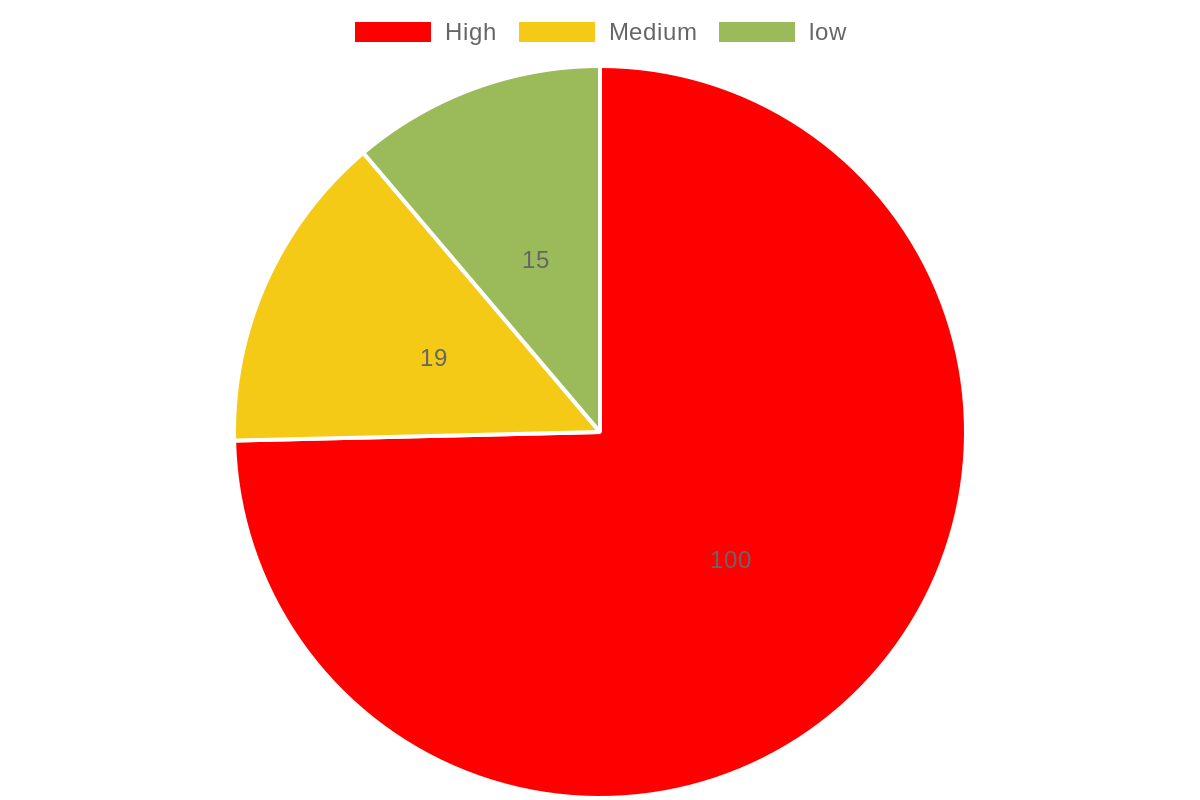
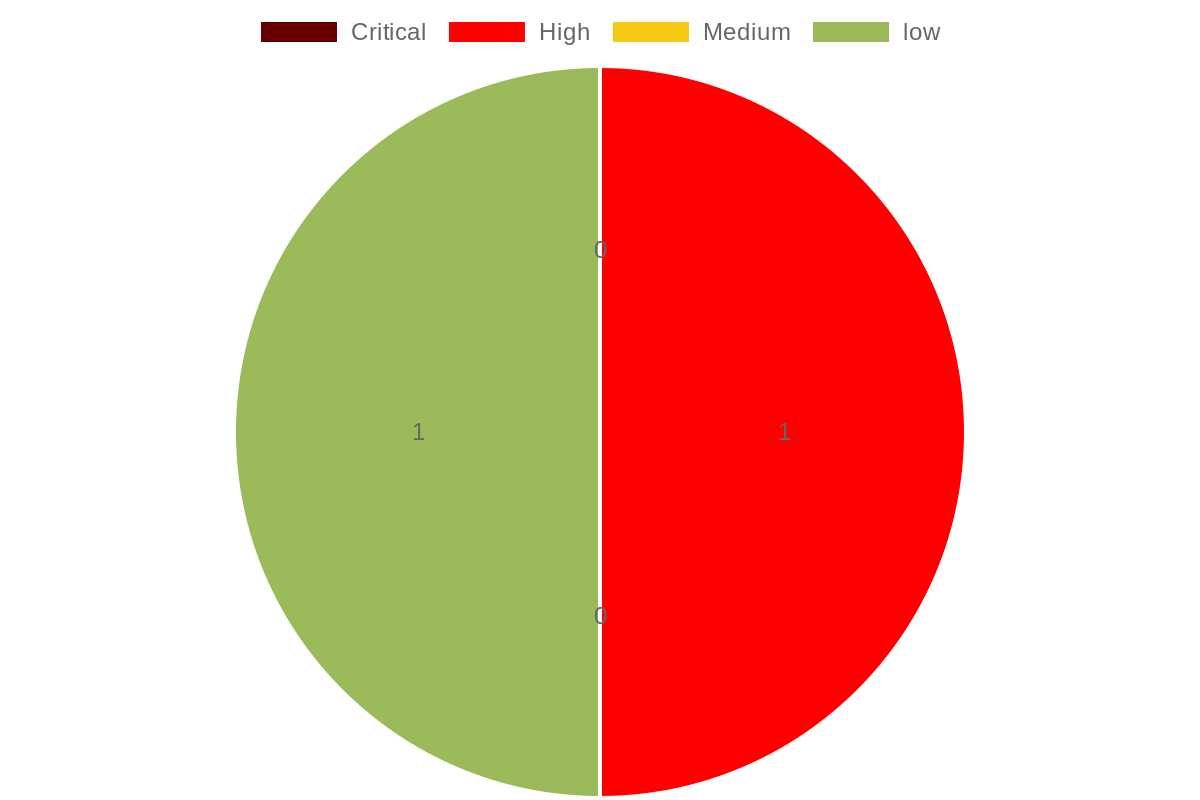
report download

diff --git a/backend/controllers/project.js b/backend/controllers/project.js
@@ -58,19 +58,19 @@ const table2 = path.join(
   "image",
   "chartectertable.png"
 );
-const chartt = () => {
+const chartt = (data) => {
   const chart = new QuickChart();
   // Add Dynamic Chart
   chart
     .setConfig({
       type: "bar",
       data: {
-        labels: ["High", "Medium", "low"],
+        labels: ["Critical", "High", "Medium", "low"],
         datasets: [
           {
             label: "vulnerabilities",
-            data: [100, 19, 15],
-            backgroundColor: ["red", "#f4ca16", "#9BBA59"],
+            data: data,
+            backgroundColor: ["#660000", "red", "#f4ca16", "#9BBA59"],
           },
         ],
       },
@@ -82,10 +82,9 @@ const chartt = () => {
   const chartUrl = chart.getUrl();
   // Define the folder where you want to save the image
   const folderPath = path.join(
-    "D:",
-    "EmploymanagentSystem",
-    "Work-Management-System",
-    "backend",
+    dirname(currentModulePath),
+    "..",
+
     "Charts"
   ); // Change 'images' to your desired folder name
 
@@ -102,19 +101,19 @@ const chartt = () => {
     }
   });
 };
-const chart2 = () => {
+const chart2 = (data) => {
   const chart = new QuickChart();
   // Add Dynamic Chart
   chart
     .setConfig({
       type: "pie",
       data: {
-        labels: ["High", "Medium", "low"],
+        labels: ["Critical", "High", "Medium", "low"],
         datasets: [
           {
             label: "vulnerabilities",
-            data: [100, 19, 15],
-            backgroundColor: ["red", "#f4ca16", "#9BBA59"],
+            data: data,
+            backgroundColor: ["#660000", "red", "#f4ca16", "#9BBA59"],
           },
         ],
       },
@@ -1417,24 +1416,119 @@ const pdfview = (req, res) => {
 };
 
 const downloadReportById = async (req, res) => {
-  console.log(req.body);
-  const rid = req.params.rid;
+  const { pid, tid, type, webtargetUrlsid } = req.params;
 
-  const report = await Report.findById(rid)
-    .populate("project")
-    .populate("employee");
-  const manager = await Employee.findById(report.project.manager);
+  const project = await Project.findById(pid);
+  const manager = await Employee.findById(project.manager);
+  const task = await Task.findById(tid);
+  const reports = [];
+  if (type === "web") {
+    for (let i = 0; i < task.webData.webtargetUrls.length; i++) {
+      if (task.webData.webtargetUrls[i]._id == webtargetUrlsid) {
+        for (
+          let j = 0;
+          j < task.webData.webtargetUrls[i].assignEmployee.length;
+          j++
+        ) {
+          for (
+            let k = 0;
+            k < task.webData.webtargetUrls[i].assignEmployee[j].report.length;
+            k++
+          ) {
+            reports.push(
+              task.webData.webtargetUrls[i].assignEmployee[j].report[k]
+            );
+          }
+        }
+      }
+    }
+  } else if (type === "api") {
+    for (let j = 0; j < task.apiData.assignEmployee.length; j++) {
+      for (let k = 0; k < task.apiData.assignEmployee[j].report.length; k++) {
+        reports.push(task.apiData.assignEmployee[j].report[k]);
+      }
+    }
+  } else if (type === "mobile") {
+    if (webtargetUrlsid === "android") {
+      for (
+        let j = 0;
+        j < task.mobileData.forAndroid.assignEmployee.length;
+        j++
+      ) {
+        for (
+          let k = 0;
+          k < task.mobileData.forAndroid.assignEmployee[j].report.length;
+          k++
+        ) {
+          reports.push(task.mobileData.forAndroid.assignEmployee[j].report[k]);
+        }
+      }
+    } else {
+      for (let j = 0; j < task.mobileData.forIos.assignEmployee.length; j++) {
+        for (
+          let k = 0;
+          k < task.mobileData.forIos.assignEmployee[j].report.length;
+          k++
+        ) {
+          reports.push(task.mobileData.forIos.assignEmployee[j].report[k]);
+        }
+      }
+    }
+  }
 
-  const date = new Date(report.createdAt);
+  const reports_data = [];
+
+  for (let i = 0; i < reports.length; i++) {
+    const r = await Report.findById(reports[i]).populate("employee");
+    if (r.isCompleted) {
+      reports_data.push(r);
+    }
+  }
+  if (reports_data.length < 1) {
+    return res.status(404).send("Not found reports");
+  }
+  // return console.log(reports_data[0][0].employee.name);
+  const date = new Date(reports_data[0].createdAt);
 
   const day = date.getUTCDate().toString().padStart(2, "0");
   const month = (date.getUTCMonth() + 1).toString().padStart(2, "0"); // Months are zero-based
   const year = date.getUTCFullYear();
 
   const formattedDate = `${day}-${month}-${year}`;
+  const authorsAndAuditorsText = [
+    [
+      "    Authors & Auditors",
+      "                                       Mail ID",
+    ],
+  ];
 
-  chartt();
-  chart2();
+  let HIGH = 0,
+    CRITICAL = 0,
+    MEDIUM = 0,
+    LOW = 0;
+  for (let i = 0; i < reports_data.length; i++) {
+    let temp = [reports_data[i].employee.name, reports_data[i].employee.email];
+    authorsAndAuditorsText.push(temp);
+    if (reports_data[i].risk === "high") {
+      HIGH++;
+    } else if (reports_data[i].risk === "low") {
+      LOW++;
+    } else if (reports_data[i].risk === "critical") {
+      CRITICAL++;
+    } else {
+      MEDIUM++;
+    }
+  }
+  authorsAndAuditorsText.push(["GISC InfoSec Team", "GISC InfoSec Team"]);
+  const summary_finds = [
+    "    " + reports_data.length,
+    "    " + CRITICAL,
+    "    " + HIGH,
+    "    " + MEDIUM,
+    "    " + LOW,
+  ];
+  chartt([CRITICAL, HIGH, MEDIUM, LOW]);
+  chart2([CRITICAL, HIGH, MEDIUM, LOW]);
 
   const doc = new pdfkit();
   res.setHeader("Content-Type", "application/pdf");
@@ -1467,7 +1561,7 @@ const downloadReportById = async (req, res) => {
     doc.moveDown(1); // Adjust the value as needed
 
     // Add "Host company Name" text
-    doc.fontSize(16).text(report.project.companyName, doc.x, doc.y);
+    doc.fontSize(16).text(project.companyName, doc.x, doc.y);
 
     // Reduce the space between lines
     doc.moveDown(0.5); // Adjust the value as needed
@@ -1479,8 +1573,8 @@ const downloadReportById = async (req, res) => {
 
     // Add the left-aligned text
     doc.fontSize(12).text("Report Prepared by: ", doc.x, doc.y);
-    doc.fontSize(10).text(report.employee.name, doc.x, doc.y);
-    doc.fontSize(10).text(report.employee.email, doc.x, doc.y);
+    doc.fontSize(10).text(reports_data[0].employee.name, doc.x, doc.y);
+    doc.fontSize(10).text(reports_data[0].employee.email, doc.x, doc.y);
     doc.fontSize(10).text("(A CERT-IN Empaneled Company)", doc.x, doc.y);
     doc
       .fontSize(10)
@@ -1505,7 +1599,7 @@ const downloadReportById = async (req, res) => {
     doc.moveDown(2);
     const noteText =
       "NOTE: The information contained within this report is considered proprietary and confidential to the {GIS Consulting}. Inappropriate and unauthorized disclosure of this report or portions of it could result in significant damage or loss to the " +
-      report.project.companyName +
+      project.companyName +
       ". This report should be distributed to individuals on a Need-to-Know basis only. Paper copies should be locked up when not in use. Electronic copies should be stored offline and protected appropriately.";
 
     doc.fontSize(12).text(noteText, 50, 500, { width: 550 });
@@ -1610,18 +1704,7 @@ const downloadReportById = async (req, res) => {
       y += cellHeight; // Move to the next row
     }
 
-    const tableData2 = [
-      [
-        "    Authors & Auditors",
-        "                                       Mail ID",
-      ],
-      [
-        "    Auditor Name: " + report.employee.name,
-        "            " + report.employee.name,
-      ],
-
-      ["    GISC InfoSec Team", "            GISC InfoSec Team"],
-    ];
+    const tableData2 = authorsAndAuditorsText;
 
     // Set font size and cell sizes
     // const fontSize = 12;
@@ -1786,9 +1869,9 @@ const downloadReportById = async (req, res) => {
     const tableData5 = [
       ["Client", "Name", "Email ID"],
       [
-        report.project.companyName,
-        report.project.clientName,
-        " " + report.employee.email,
+        project.companyName,
+        project.clientName,
+        " " + reports_data[0].employee.email,
       ],
     ];
 
@@ -2339,7 +2422,7 @@ const downloadReportById = async (req, res) => {
         "  Medium  ",
         "  Low  ",
       ],
-      ["     00  ", "     00 ", "    00 ", "    00 ", "    00 "],
+      summary_finds,
     ];
 
     // Set font size and cell sizes
@@ -2667,11 +2750,11 @@ const downloadReportById = async (req, res) => {
       [
         "1st Level",
         "Name: " +
-          report.employee.name +
+          reports_data[0].employee.name +
           "\nemail: " +
-          report.employee.email +
+          reports_data[0].employee.email +
           "\nMob: " +
-          report.employee.phone +
+          reports_data[0].employee.phone +
           "",
       ],
       [

diff --git a/src/pages/taskview/detailedTask.jsx b/src/pages/taskview/detailedTask.jsx
@@ -14,7 +14,6 @@ function DetailedViewtask() {
   const TaskView = useSelector((state) => state.tasksView);
   const { tasks } = TaskView;
   const { data } = tasks;
-  console.log(data);
 
   const employeeList = useSelector((state) => state.employeeList);
   const { loading, error, employees } = employeeList;
@@ -40,22 +39,22 @@ function DetailedViewtask() {
   const userData = JSON.parse(localStorage.getItem("employeeInfo"));
   const role = userData?.userRole;
   const isProjectManager = role === "Project Manager";
-  const downloadPdf = (webtargetUrlsid) => {
+  const downloadPdf = (type, webtargetUrlsid) => {
     // Access the dynamic PDF endpoint from your Node.js server.
-    const pdfUrl = `http://localhost:5000/project/pdfview/${projectId}?task_id=${taskID}&type=${type}&webtargetUrlsid=${webtargetUrlsid}`;
+    const pdfUrl = `http://localhost:5000/project/downloadallreports/${projectId}/${taskID}/${type}/${webtargetUrlsid}`;
     console.log(pdfUrl);
-    // fetch(pdfUrl)
-    //   .then((response) => response.blob())
-    //   .then((blob) => {
-    //     const url = window.URL.createObjectURL(blob);
-    //     const a = document.createElement("a");
-    //     a.style.display = "none";
-    //     a.href = url;
-    //     a.download = "dynamic.pdf";
-    //     document.body.appendChild(a);
-    //     a.click();
-    //     window.URL.revokeObjectURL(url);
-    //   });
+    fetch(pdfUrl)
+      .then((response) => response.blob())
+      .then((blob) => {
+        const url = window.URL.createObjectURL(blob);
+        const a = document.createElement("a");
+        a.style.display = "none";
+        a.href = url;
+        a.download = "dynamic.pdf";
+        document.body.appendChild(a);
+        a.click();
+        window.URL.revokeObjectURL(url);
+      });
   };
   return (
     <div className="App">
@@ -107,7 +106,7 @@ function DetailedViewtask() {
                       </div>
                       <button
                         onClick={() => {
-                          downloadPdf(url._id);
+                          downloadPdf("web", url._id);
                         }}
                       >
                         View Full Report
@@ -275,6 +274,13 @@ function DetailedViewtask() {
                   </>
                 )}
 
+                <button
+                  onClick={() => {
+                    downloadPdf("mobile", data.mobileData._id);
+                  }}
+                >
+                  View Full Report
+                </button>
                 <div className=" mt-4 flex flex-col">
                   <div className="text-md font-medium leading-6 text-gray-900">
                     Remarks :
@@ -334,6 +340,13 @@ function DetailedViewtask() {
                     }
                   })}
                 </div>
+                <button
+                  onClick={() => {
+                    downloadPdf("api", data.apiData._id);
+                  }}
+                >
+                  View Full Report
+                </button>
 
                 <div className=" mt-4 flex flex-col">
                   <div className="text-md font-medium leading-6 text-gray-900">

diff --git a/backend/routes/project.js b/backend/routes/project.js
@@ -99,7 +99,10 @@ router.post("/projectbyprojectmanager", protect, getAllProjectbypM);
 router.post("/somemoredetails", protect, someMoreDetails);
 
 router.get("/pdfview", pdfview);
-router.get("/downloadreportbyid/:rid", downloadReportById);
+router.get(
+  "/downloadallreports/:pid/:tid/:type/:webtargetUrlsid",
+  downloadReportById
+);
 router.post(
   "/uploadexceltemplate",
   upload.single("projectFile"),
